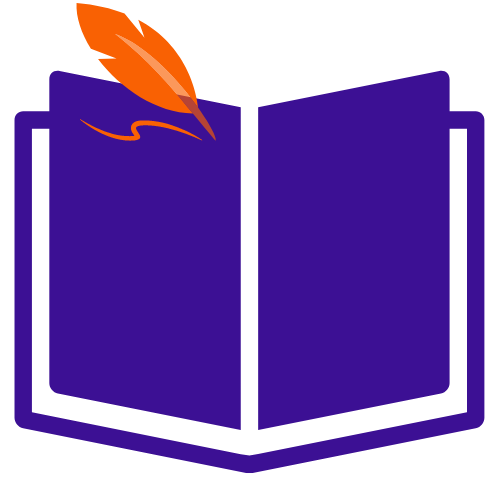
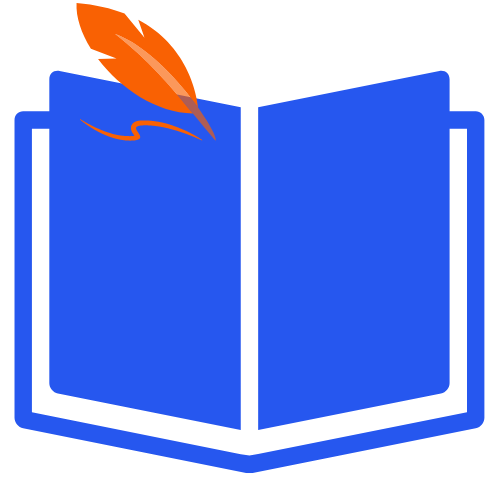
added styling to editor and added basic function for editing notes

diff --git a/scribe/src/components/Dashboard.js b/scribe/src/components/Dashboard.js
@@ -13,7 +13,14 @@ export default (props) => {
     const [formData, updateFormData] = React.useState(null);
     const [value, setValue] = useState('');
     const [showSidebar, setshowSidebar] = React.useState(true)
+    let [noteTitle, setNoteTitle] = React.useState("");
+    let [noteBody, setNoteBody] = React.useState("");
+    let [content, setContent] = React.useState("");
+    const [edit, setEdit] = React.useState(false);
+    const [newNote, setnewNote] = React.useState(true);
 
+
+    //localize storage of token
     React.useEffect(() => {
         const checkToken = JSON.parse(window.localStorage.getItem('auth-token'))
         if (checkToken) {
@@ -21,8 +28,10 @@ export default (props) => {
         }
     }, [])
 
+    //pull in users notes 
     React.useEffect(() => {
         getNotes()
+        setContent("new")
     }, [])
 
     // Get all of the users notes from the API
@@ -39,6 +48,7 @@ export default (props) => {
 
     }
 
+    //update form data with change in the editor
     const handleChange = (e) => {
         updateFormData({
             ...formData,
@@ -48,6 +58,7 @@ export default (props) => {
         });
     };
 
+    //add note to users collection
     const addNote = async (e) => {
         console.log(value)
         console.log(userData)
@@ -73,7 +84,29 @@ export default (props) => {
 
     }
 
-    //Delete Note
+    //edit note to users collection
+    const editNote = async (e, id) => {
+
+        e.preventDefault()
+
+        let finalData = formData;
+        finalData.notes = value;
+        console.log(finalData)
+
+        const response = await fetch(`http://localhost:5000/notes/${id}`, {
+            method: 'PUT',
+            headers: {
+                'Content-Type': "application/json",
+                Authorization: `bearer ${userData.token}`
+            },
+            body: JSON.stringify(finalData)
+        });
+
+        getNotes()
+
+    }
+
+    //Delete Note from users collection
     const handleDelete = async (id) => {
         const response = await fetch(`http://localhost:5000/notes/${id}`, {
             method: 'DELETE',
@@ -85,6 +118,7 @@ export default (props) => {
         getNotes();
     }
 
+    //toggle sidebar visibility
     const toggleSidebar = () => {
         if (showSidebar == true) {
             setshowSidebar(false)
@@ -94,6 +128,7 @@ export default (props) => {
         console.log(showSidebar);
     }
 
+    //styling for the editor
     const divStyle = {
         'height': '50vh',
         'overflow': 'hidden',
@@ -101,6 +136,7 @@ export default (props) => {
         'border-bottom': '1px solid #d8d8d8',
     }
 
+    //functionality for the logout button
     const { userData, setUserData } = useContext(UserContext)
     const history = useHistory();
 
@@ -113,6 +149,24 @@ export default (props) => {
         history.push('/')
     }
 
+    const editData = (string, head, body) => {
+        setEdit(true)
+        setnewNote(false)
+        setNoteTitle(head);
+        setNoteBody(body);
+
+        console.log(head)
+        console.log(typeof(head))
+        console.log(body)
+        console.log(typeof(body))
+        console.log(string)
+        console.log(typeof(string))
+
+        
+
+        
+        
+    }
 
     return (
         <>
@@ -127,12 +181,12 @@ export default (props) => {
                         {showSidebar ?
                             <div className="Dashboard__main-content__sidebar__content">
                                 <div className="Dashboard__main-content__sidebar__content__addnote" >
-                                    <div className="item-add"> <i className="pi pi-plus-circle" style={{ color: "green", fontSize: "1.8em", margin: "0", padding: "0" }}></i> Add a Note</div>
+                                    <div className="item-add"> <i className="pi pi-plus-circle" style={{ color: "#5271ff", fontSize: "1.8em", margin: "0", padding: "0" }}></i> Add a Note</div>
                                 </div>
                                 {notes ?
                                     notes.map((note, index) => {
                                         return (
-                                            <div className="Dashboard__main-content__sidebar__content__item" key={index}>
+                                            <div className="Dashboard__main-content__sidebar__content__item" key={index} onClick={() => { editData("edit", note.title, note.notes)}}>
                                                 <div className="item-title" key={index}>{note.title}</div>
                                                 <div className="tooltip">
                                                     <button onClick={() => {
@@ -150,22 +204,37 @@ export default (props) => {
                     <div className="Dashboard__main-content__note-container">
                         <div className="Dashboard__main-content__note-container__logo">
                             <div></div>
-                            <img src="scribe.png" alt="scribe-logo"></img>
+                            <img src="scribe-main-logo.png" alt="scribe-logo"></img>
                             <div className="dashnav__links">
                                 <Link to="" style={{ textDecoration: 'none' }}><span id="logout" onClick={logout}>Logout</span></Link>
                             </div>
                         </div>
+                        {newNote ?
                         <div className="Dashboard__main-content__note-container__note">
                             <form>
                                 <label htmlFor="title">Title:</label><br />
-                                <input type="title" name="title" id="title" onChange={handleChange} /><br />
+                                <input type="text" name="title" id="title" onChange={handleChange} /><br />
                                 <label htmlFor="notes">Body:</label><br />
                                 <div className="editor-area">
-                                    <ReactQuill id="notes" theme="snow" value={value} onChange={setValue} style={divStyle} />
+                                    <ReactQuill id="notes" theme="snow" value={value} style={divStyle} onChange={setValue} />
                                 </div><br />
-                                <button type="submit" onClick={addNote}> Submit</button>
+                                <button type="submit" onClick={addNote}> Create Note</button>
                             </form>
                         </div>
+                        : ""}
+                        {edit ?
+                        <div className="Dashboard__main-content__note-container__note">
+                            <form>
+                                <label htmlFor="title">Title:</label><br />
+                                <input type="text" name="title" id="title" value={noteTitle} onChange={handleChange} /><br />
+                                <label htmlFor="notes">Body:</label><br />
+                                <div className="editor-area">
+                                    <ReactQuill id="notes" theme="snow" value={noteBody} style={divStyle} onChange={setValue}/>
+                                </div><br />
+                                <button type="submit" onClick={editNote}> Create Note</button>
+                            </form>
+                        </div>
+                        : ""}
                     </div>
                 </div>
             </div>

diff --git a/scribe/src/scss/styles.scss b/scribe/src/scss/styles.scss
@@ -1,9 +1,9 @@
 //variables
-$main-color: #5e17eb;
+$main-color: #2657ef;
 $secondary-color: white;
 $accent-color: #f96103;
 $hover-color: rgb(180, 179, 179);
-$alt-color: #222222;
+$alt-color: #5270ff;
 
 * {
     box-sizing: border-box;
@@ -87,7 +87,7 @@ html, body {
         background-color: $secondary-color;
     
         &__header{
-            background-image: url('/scribe-banner.png');
+            background-image: url('/scribe-banner-3.png');
             background-size: cover;
             display: flex;
             flex-direction: column-reverse;
@@ -264,7 +264,7 @@ html, body {
             }
         }
         &__top-footer {
-            background-color: $main-color;
+            background-color: #2657ef;
             width: 100%;
             padding: 10% 15%;
             margin-top: 10%;   
@@ -390,7 +390,7 @@ html, body {
 
     &__header{
         width: 100%;
-        background-image: url('/scribe-banner.png');
+        background-image: url('/scribe-banner-3.png');
         background-size: cover;
         display: flex;
         justify-content: space-around;
@@ -552,7 +552,7 @@ html, body {
     }
 
     &__top-footer {
-        background-color: $main-color;
+        background-color: #2657ef;
         width: 100%;
         padding: 10% 15%;
         margin-top: 10%;   
@@ -612,10 +612,14 @@ html, body {
             overflow: auto;
             display: flex;
             &__content {
-                width:300px;
-                position: relative;
+                width:20vw;
+                min-width: 300px; 
+                position: fixed;
+                left: 50px;
                 border-right: 1px solid #d8d8d8;
                 z-index: 10000;
+                height: 100%;
+                background-color: $secondary-color;
                 &__addnote {
                     border-bottom: 1px solid #d8d8d8;
                     padding: 5% 5%;
@@ -631,8 +635,8 @@ html, body {
                     align-items: center;
                 }
                 &__item:hover {
-                    border-left: 3px solid #632aff;
-                    background-color: #ede3ff;
+                    border-right: 3px solid $main-color;
+                    background-color: #e3e5ff;
                     cursor: pointer;
                 }
                 
@@ -640,14 +644,17 @@ html, body {
             &__slider {
                 display: flex;
                 justify-content: center;
-                background-color: #632aff;
+                background-color: $main-color;
+                align-items: center;
                 width: 50px;
+                padding-top: 20%;
                 &__icon {
                     height: 100%;
-                    margin-top: 20%;
+                    margin-top: 50%;
+                    align-self: flex-end;
                 }
                 &__icon:hover {
-                    color: $accent-color;
+                    color: $main-color;
                     cursor: pointer;
                 }
             }
@@ -660,7 +667,6 @@ html, body {
             align-items: center;
             &__logo {
                 margin-top: 2%;
-                margin-right: 4%;
                 display: flex;
                 width: 100%;
                 justify-content: space-between;
@@ -680,7 +686,7 @@ html, body {
                 -webkit-box-shadow: 0 0 6px #ccc;
                 box-shadow: 0 0 6px #ccc;
                 border-radius: 3px;
-                width: 56vw;
+                width: 50vw;
             }
         }
             
@@ -725,8 +731,9 @@ li {
 }
 
 #logout {
-    color: $main-color;
+    color: $alt-color;
     font-weight: 400;
+    margin-right: 1vw;
 }
 
 .pi-list {
@@ -735,11 +742,43 @@ li {
 }
 .pi-list:hover {
     font-size: 1.6em;
-    color: $accent-color;
+    color: rgb(209, 209, 252);
+}
+
+button[type=submit] {
+    background-color: $accent-color;
+    border: none;
+    border-radius: 3px;
+    padding: 1%;
+    color: white;
+    font-weight: 500;
+}
+
+button[type=submit]:hover {
+    opacity: .7;
+    color: white;
+    cursor: pointer;
 }
 
 @media screen and (max-width: 700px) {
-    .Dashboard__main-content__sidebar__content {
-        display: none;
+    button[type=submit] {
+        background-color: $accent-color;
+        border: none;
+        border-radius: 3px;
+        padding: 1%;
+        color: white;
+        font-weight: 500;
+        width: 100%;
     }
+
+    .Dashboard__main-content__note-container__logo {
+        margin-top: 5%;
+    }
+    .Dashboard__main-content__note-container__note {
+        width: 80vw;
+        margin-top: 3%;
+    }
+
+
 }
+

diff --git a/scribe/src/components/Nav.js b/scribe/src/components/Nav.js
@@ -21,7 +21,7 @@ export default (props) => {
     return (
         <div className= "nav">
             <div className="nav__img">
-                <a href="/"><img src="scribe.png" alt="scribe-logo"></img></a>
+                <a href="/"><img src="scribe-main-logo.png" alt="scribe-logo"></img></a>
             </div>
             <div className="nav__links">
                 {userData.token ? 
